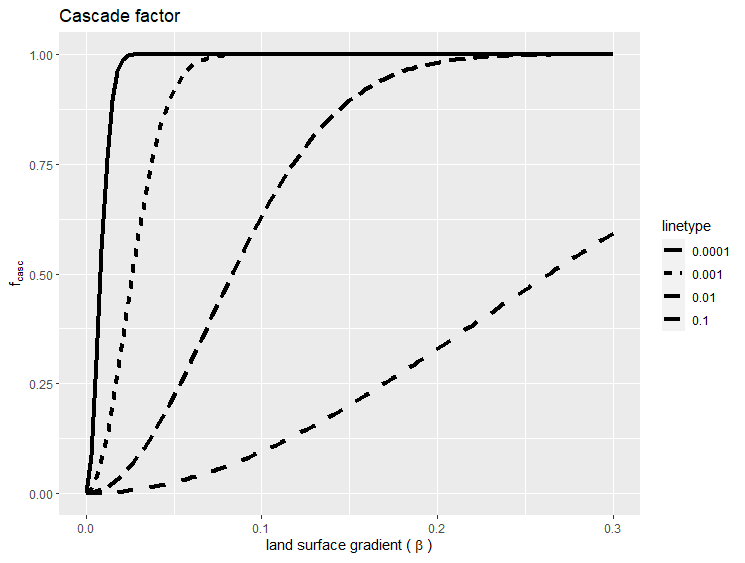
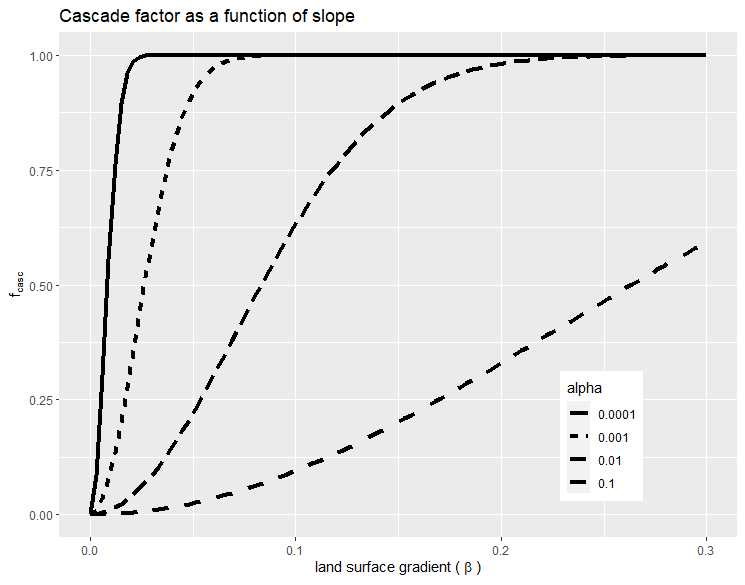
u

diff --git a/modelling/waterbudget/overlandflow.md b/modelling/waterbudget/overlandflow.md
@@ -65,7 +65,10 @@ where $\beta$ is land surface gradient, $r$ is called the "range" (note that the
 
 ![](../fig/rdrr-fcasc.png)
 
+*$F_\text{casc}$ is assigned as a function of slope. Above shows the affect of varying $\alpha$ within the range of gradients found local to the ORMGP (see histogram below).*
 
+
+<br>
 
 ## Constrained $F_\text{casc}$
 
@@ -98,6 +101,7 @@ Urban areas that are assumed serviced also have $F_\text{casc}=1$ but also have 
 ## Cascade network
 
 ![](../fig/cascade.png)
+
 *Model close-up showing the granularity of the overland flow routing scheme. Flow primarily runs along the purple tracks, but in serviced areas, runoff is directly routed to streams (red).*
 
 <br>
@@ -114,6 +118,7 @@ The $D8$ algorithm produces a dendritic network of overland flow paths whose rat
 
 
 ![](../fig/rdrr-beta-1.png)
+
 *When comparing the distribution of land surface gradient to a calibrated cascade factor function it's apparent that lateral movement of overland flow is not a dominant process for most of the landscape.*
 
 <br>
